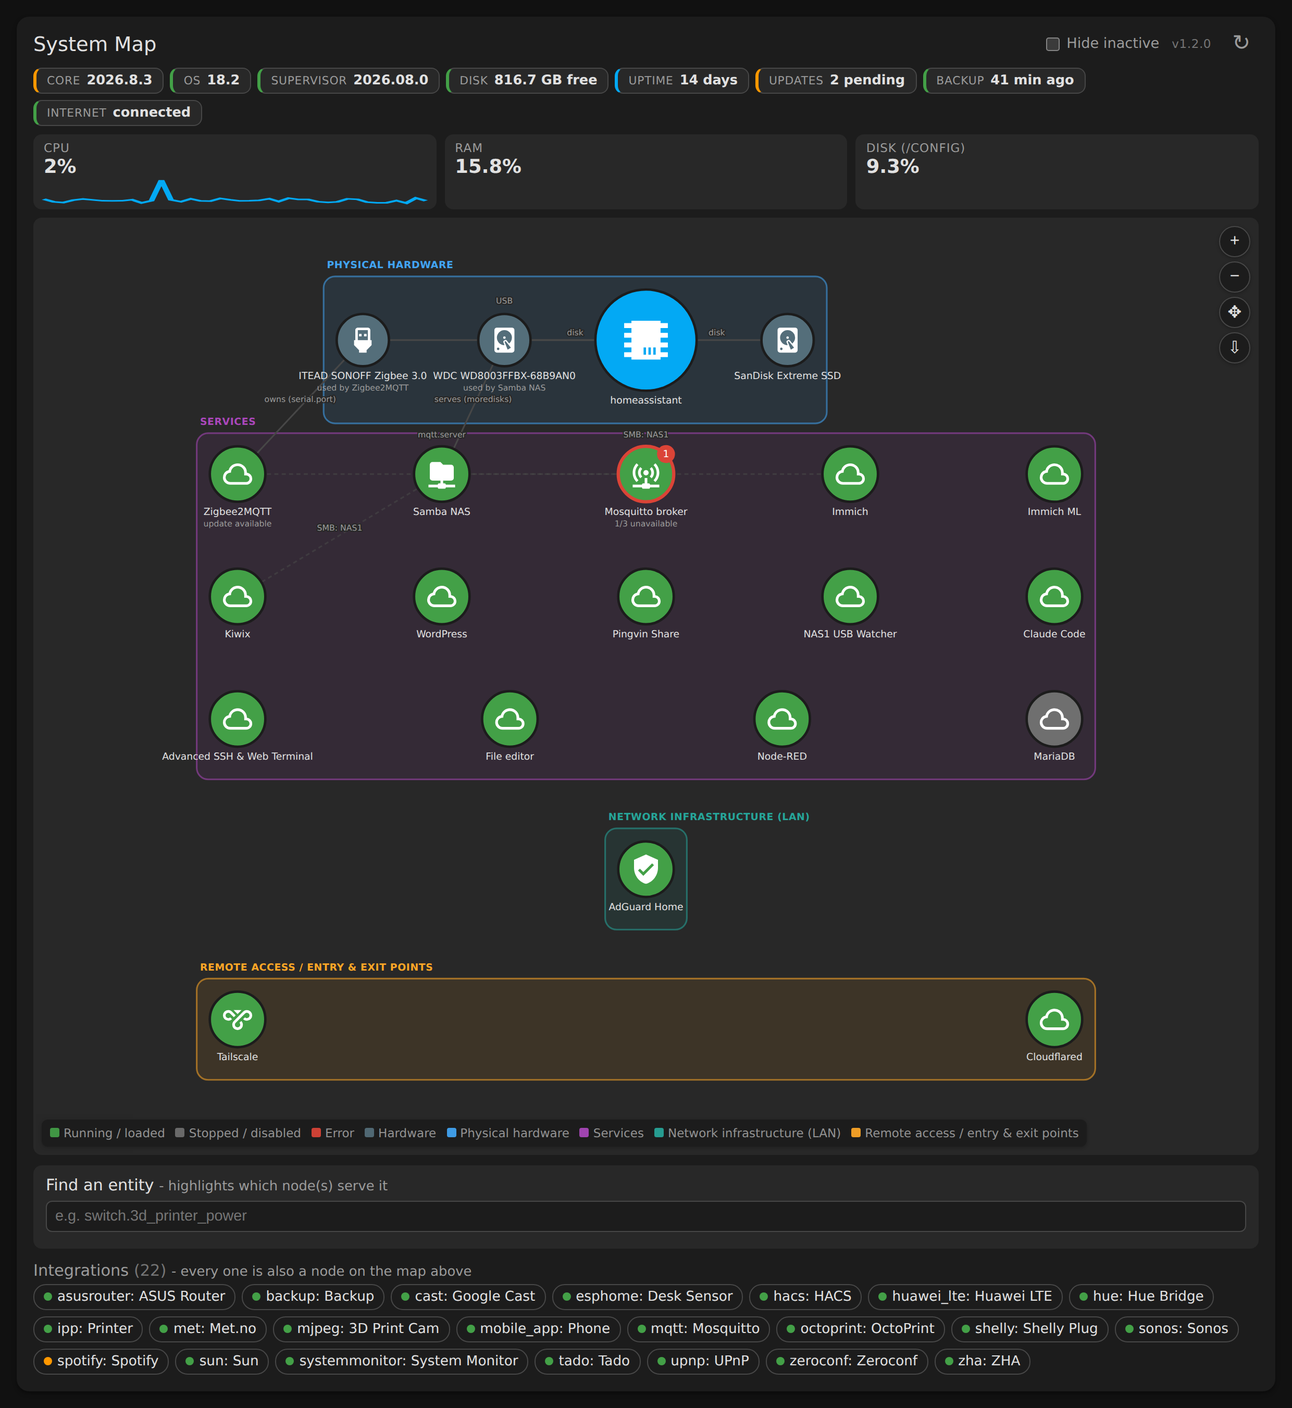
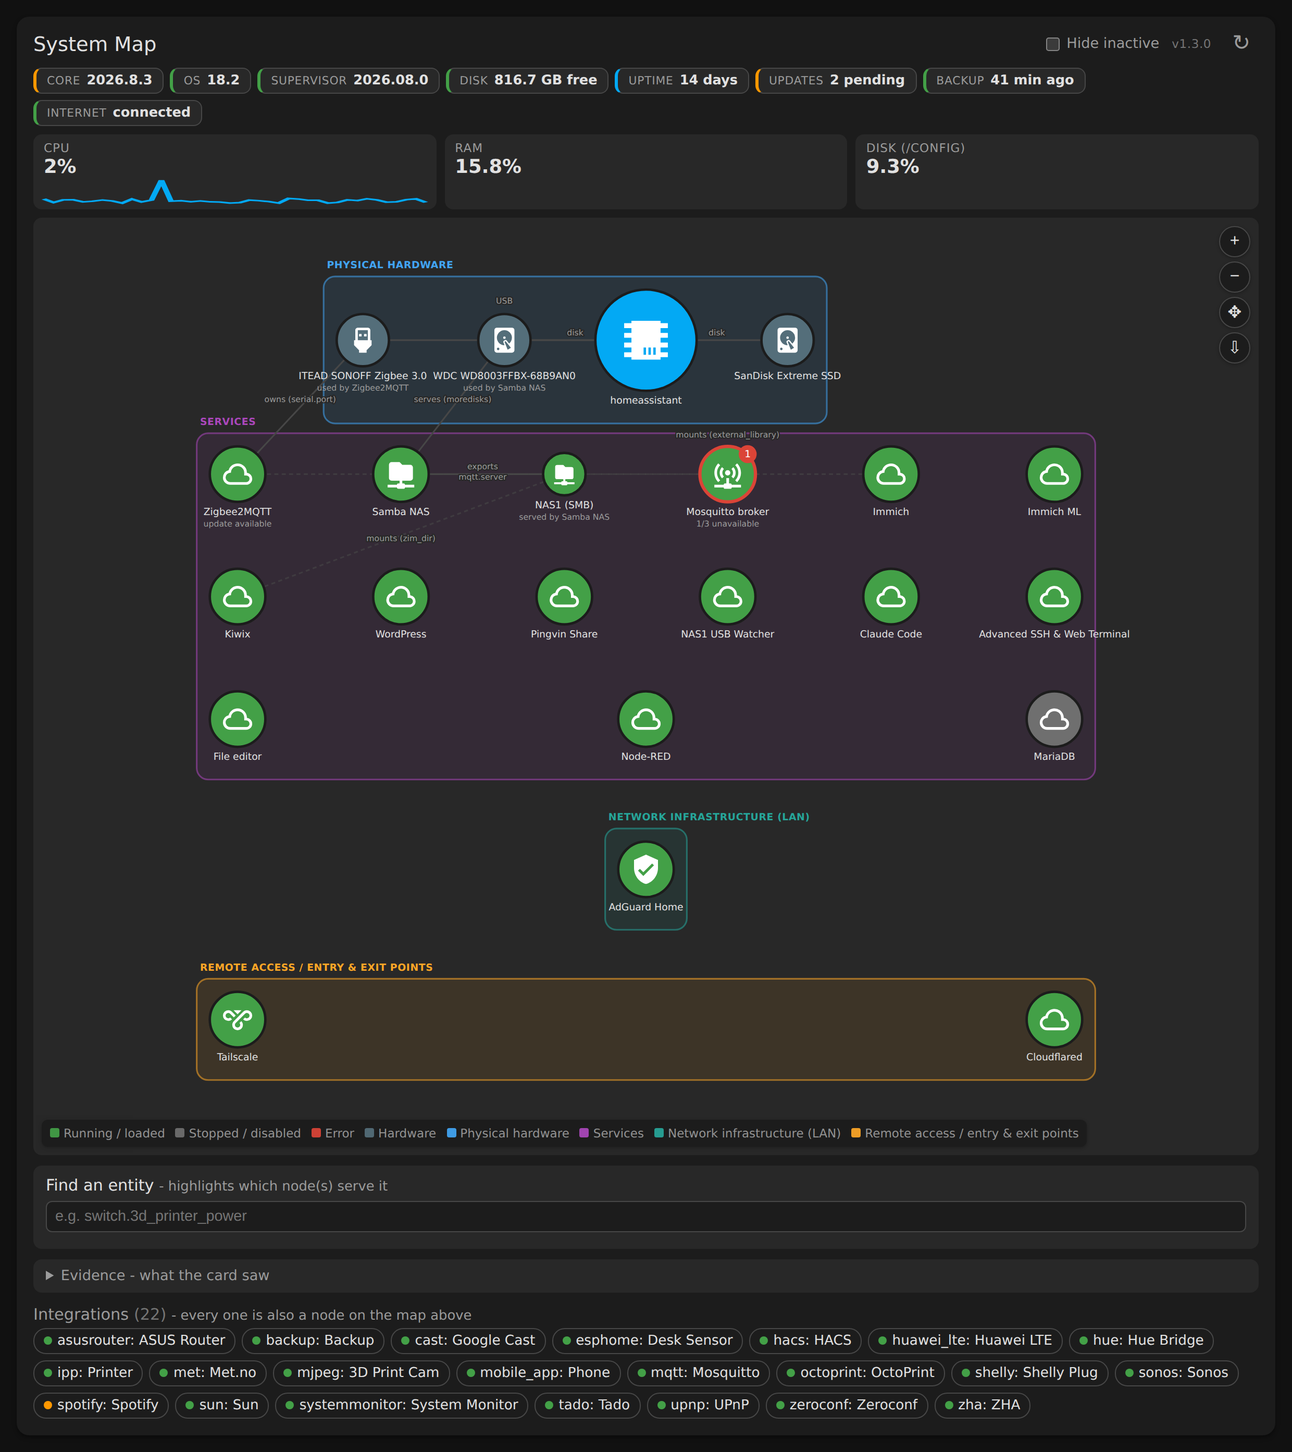
Draw the share, add an evidence panel, restore the public URLs (v1.3.0)
The public URLs regression first, since it was a real bug: routes were
parsed from the last 400 lines of a tunnel add-on's log, but the ingress
rules are logged once at startup. On a tunnel that has been up a while and
chattering since - connection registrations, prechecks - that line has long
scrolled out of the window, so every route was lost and nothing got a public
URL. Logs are now parsed in full; the tail limit applies only to the log
shown in the detail panel.

The share is now a node. "Samba serves NAS1" and "Immich reads NAS1" as two
edge labels left the reader to join them up; drawing the share makes the
chain the shape of the picture - disk, `serves (moredisks)`, the add-on
exporting it, `exports`, NAS1 (SMB), `mounts (external_library)`, each
consumer. A share takes the state of the add-on exporting it, so it goes
grey when that add-on stops rather than sitting permanently unknown.

The evidence panel answers "what did you actually see?" directly, rather
than leaving the reasoning implicit in a diagram. Per add-on: state,
published ports, the roles and tier derived from them, option keys, folder
mappings, whether its log was read, and every edge derived for it. Plus the
external routes with what each resolved to, the discovered hardware with its
paths and labels, and the fetches that failed. It is also the fastest way to
establish that a fact is not in any API at all - an add-on with no ports, no
matched options and no log evidence has nothing to draw from.
[…]

diff --git a/system-map-card.js b/system-map-card.js
@@ -112,7 +112,7 @@
 // version in the console is always the version of the file that's running -
 // which is the first thing worth knowing when a dashboard misbehaves after
 // an update, and the quickest way to catch a stale browser cache.
-const VERSION = "1.2.0";
+const VERSION = "1.3.0";
 
 console.info(
   `%c SYSTEM-MAP-CARD %c v${VERSION} `,
@@ -311,6 +311,21 @@ function routesFromLog(text) {
   return out;
 }
 
+// Every http(s) endpoint an add-on's log mentions, deduplicated. Used to
+// derive "this add-on talks to that one" where the dependency is announced at
+// runtime rather than written in the options. Deliberately only host:port -
+// no paths, no query strings, nothing that could carry a credential onto the
+// map.
+function servicesFromLog(text) {
+  if (typeof text !== "string") return [];
+  const seen = new Map();
+  for (const match of text.matchAll(/https?:\/\/([a-z0-9.-]+):(\d{2,5})/gi)) {
+    const service = `http://${match[1]}:${match[2]}`;
+    if (!seen.has(service)) seen.set(service, { service, host: match[1], port: parseInt(match[2], 10) });
+  }
+  return [...seen.values()];
+}
+
 // Whose logs are worth reading for routes? An add-on holding a tunnel or
 // proxy credential, since that's exactly the case where the rules live
 // somewhere else and its options can't tell us anything. Keyed on the option
@@ -465,6 +480,8 @@ const DEFAULTS = {
   show_sparklines: true, // host CPU/RAM history strip
   discover_hardware: true, // build the hardware tier from Supervisor's hardware/info
   group_by_area: false,
+  scan_service_logs: false, // read every running add-on's log for services it dials
+  show_debug: false, // the evidence panel: what the card saw, and what it concluded
   tiers: ["hardware", "services", "network", "remote"],
   // Overrides for instances that don't run System Monitor under these names
   cpu_entity: "",
@@ -550,6 +567,8 @@ const EDITOR_SCHEMA = [
           { name: "group_by_area", selector: { boolean: {} } },
           { name: "show_addon_stats", selector: { boolean: {} } },
           { name: "show_addon_logs", selector: { boolean: {} } },
+          { name: "scan_service_logs", selector: { boolean: {} } },
+          { name: "show_debug", selector: { boolean: {} } },
           { name: "hide_inactive", selector: { boolean: {} } },
         ],
       },
@@ -592,6 +611,8 @@ const EDITOR_LABELS = {
   group_by_area: "Group by area",
   show_addon_stats: "Add-on CPU / RAM",
   show_addon_logs: "Add-on log tail",
+  scan_service_logs: "Scan logs for service links (slow)",
+  show_debug: "Show the evidence panel",
   cpu_entity: "CPU",
   ram_entity: "Memory",
   disk_entity: "Disk",
@@ -759,6 +780,9 @@ class SystemMapCard extends HTMLElement {
     this._problems = new Map(); // node key -> {unavailable, total, issues, health}
     this._counts = new Map(); // node key -> {devices, entities, areas}
     this._history = {}; // stat key -> [values] for the sparklines
+    this._logRoutes = []; // ingress rules read out of logs
+    this._logServices = []; // host:port endpoints add-ons named in their logs
+    this._logSizes = new Map(); // slug -> bytes of log read, for the evidence panel
     this._refreshTimer = null;
     this._naturalViewBox = null; // full-fit viewBox, recomputed each render
     // Set of namespaced keys highlighted by the entity finder, or null:
@@ -879,6 +903,7 @@ class SystemMapCard extends HTMLElement {
           <div class="smc-entity-suggestions" hidden></div>
           <div class="smc-entity-result"></div>
         </div>` : ""}
+        ${cfg.show_debug ? `<details class="smc-debug"><summary>Evidence - what the card saw</summary><div class="smc-debug-body"></div></details>` : ""}
         ${cfg.show_integration_list ? `<div class="smc-lists">
           <div class="smc-col">
             <h3>Integrations <span class="smc-count" data-count="integrations"></span> <span class="smc-hint">- every one is also a node on the map above</span></h3>
@@ -970,6 +995,17 @@ class SystemMapCard extends HTMLElement {
         .smc-problem-badge { fill: var(--error-color, #db4437); font-size: 10px; font-weight: 700; text-anchor: middle; }
         .smc-detail-section { margin-top: 8px; padding-top: 6px; border-top: 1px solid var(--divider-color, #ddd); }
         .smc-detail-section h4 { margin: 0 0 4px; font-size: 0.85em; font-weight: 600; color: var(--secondary-text-color); }
+        .smc-debug { margin-top: 10px; padding: 8px 12px; border-radius: 8px; background: var(--secondary-background-color, #f2f2f2); font-size: 0.85em; color: var(--primary-text-color); flex: 0 0 auto; }
+        .smc-debug summary { cursor: pointer; font-weight: 500; color: var(--secondary-text-color); }
+        .smc-debug-body { margin-top: 8px; max-height: 420px; overflow: auto; }
+        .smc-debug table { width: 100%; border-collapse: collapse; font-size: 0.92em; }
+        .smc-debug th { text-align: left; font-weight: 500; color: var(--secondary-text-color); padding: 3px 8px 3px 0; vertical-align: top; white-space: nowrap; }
+        .smc-debug td { padding: 3px 8px 3px 0; vertical-align: top; word-break: break-word; }
+        .smc-debug tr + tr td, .smc-debug tr + tr th { border-top: 1px solid var(--divider-color, #ddd); }
+        .smc-debug h4 { margin: 10px 0 4px; font-size: 0.95em; color: var(--primary-text-color); }
+        .smc-debug h4:first-child { margin-top: 0; }
+        .smc-debug code { font-family: var(--code-font-family, monospace); font-size: 0.95em; opacity: 0.9; }
+        .smc-debug .smc-none { color: var(--secondary-text-color); font-style: italic; }
         .smc-log { margin: 0; max-height: 160px; overflow: auto; font-family: var(--code-font-family, monospace); font-size: 0.75em; white-space: pre-wrap; word-break: break-word; background: var(--card-background-color, #fff); border-radius: 6px; padding: 6px 8px; }
       </style>
     `;
@@ -1604,10 +1640,27 @@ class SystemMapCard extends HTMLElement {
       if (!this.isConnected) return;
       const info = this._addonInfoCache.get(addon.slug);
       if (!info || info._error || !looksLikeIngressProvider(info.options)) continue;
-      const log = await this._fetchAddonLog(addon.slug, 400);
+      const log = await this._fetchAddonLog(addon.slug, 0);
+      this._logSizes.set(addon.slug, log ? log.length : 0);
       for (const route of routesFromLog(log)) found.push({ ...route, viaSlug: addon.slug });
     }
     this._logRoutes = found;
+
+    // Optional, and off by default because it means reading every running
+    // add-on's whole log. An add-on logs the services it dials at startup -
+    // Immich announces its machine-learning sidecar as
+    // "became healthy (http://192.168.8.25:3004)" - and that host:port
+    // resolves to another add-on exactly as a tunnel's ingress rule does.
+    if (!this._config.scan_service_logs) return;
+    const dialled = [];
+    for (const addon of this._addons) {
+      if (!this.isConnected) return;
+      if (addon.state !== "started") continue;
+      const log = await this._fetchAddonLog(addon.slug, 0);
+      this._logSizes.set(addon.slug, log ? log.length : 0);
+      for (const target of servicesFromLog(log)) dialled.push({ ...target, fromSlug: addon.slug });
+    }
+    this._logServices = dialled;
   }
 
   // One hour of the two headline stats, downsampled to fit a ~60px sparkline.
@@ -1644,6 +1697,7 @@ class SystemMapCard extends HTMLElement {
     this._renderLegend();
     this._renderGraph();
     this._renderChipList("integrations");
+    this._renderDebug();
     this._renderHostStats();
     this._renderDetail().catch((e) => console.error("system-map-card: detail render failed", e));
     const btn = this.querySelector(".smc-refresh");
@@ -1789,6 +1843,80 @@ class SystemMapCard extends HTMLElement {
         </span>`
       )
       .join("");
+  }
+
+  // The evidence panel. Everything the map claims is inferred from something,
+  // and when an inference is wrong or missing the useful question is "what
+  // did you actually see?" - so this answers it directly, per add-on, rather
+  // than leaving the reasoning implicit in a diagram. It is also the fastest
+  // way to find out that a fact simply isn't in any API: an add-on with no
+  // ports, no matched options and no log evidence has nothing to draw from.
+  _renderDebug() {
+    const el = this.querySelector(".smc-debug-body");
+    if (!el) return;
+
+    const esc = escapeHtml;
+    const none = (text) => `<span class="smc-none">${esc(text)}</span>`;
+    const table = (rows) =>
+      rows.length
+        ? `<table>${rows.map(([k, v]) => `<tr><th>${esc(k)}</th><td>${v}</td></tr>`).join("")}</table>`
+        : none("nothing found");
+
+    const byId = new Map(this._derived.nodes.map((n) => [n.id, n]));
+    const edgesFor = (id) =>
+      this._derived.edges
+        .filter(([from, to]) => from === id || to === id)
+        .map(([from, to, opts]) => `${esc(byId.get(from)?.label || from)} → ${esc(byId.get(to)?.label || to)} <code>${esc(opts?.label || "")}</code>`);
+
+    const addonRows = this._addons.map((addon) => {
+      const info = this._addonInfoCache.get(addon.slug);
+      const node = this._derived.nodes.find((n) => n.slug === addon.slug);
+      const ports = Object.keys(info?.network || {});
+      const roles = node?.roles || [];
+      const facts = [
+        `state <code>${esc(addon.state || "?")}</code>`,
+        ports.length ? `ports <code>${esc(ports.join(", "))}</code>` : "no published ports",
+        roles.length ? `roles <code>${esc(roles.join(", "))}</code>` : null,
+        `tier <code>${esc(node?.tier || "not placed")}</code>`,
+        info ? `options <code>${esc(Object.keys(info.options || {}).join(", ") || "none")}</code>` : "options not read yet",
+        info?.map ? `folders <code>${esc((Array.isArray(info.map) ? info.map : Object.keys(info.map)).join(", "))}</code>` : null,
+        this._logSizes.has(addon.slug) ? `log read (${esc(String(this._logSizes.get(addon.slug)))} bytes)` : "log not read",
+      ].filter(Boolean);
+      const links = node ? edgesFor(node.id) : [];
+      return [
+        addon.name || addon.slug,
+        `${facts.join(" · ")}${links.length ? `<br>${links.join("<br>")}` : `<br>${none("no derived links")}`}`,
+      ];
+    });
+
+    const routeRows = (this._routes || []).map((r) => [
+      r.hostname,
+      `${esc(r.service)} → ${esc(byId.get(r.targetId)?.label || "unresolved")} <code>${esc(r.source)}</code>, via ${esc(r.viaSlug || "?")}`,
+    ]);
+
+    const hardwareRows = this._derived.nodes
+      .filter((n) => n.kind === "hardware")
+      .map((n) => [
+        n.label,
+        `paths <code>${esc((n.paths || []).join(", ") || "none")}</code> · labels <code>${esc((n.labels || []).join(", ") || "none")}</code><br>` +
+          ((n.usedBy || []).length
+            ? n.usedBy.map((u) => `${esc(u.name)} <code>${esc(u.option)}</code>${u.via ? ` (via ${esc(u.via)})` : ""}`).join("<br>")
+            : none("no add-on's options reference it")),
+      ]);
+
+    const dialled = (this._logServices || []).map((d) => [
+      this._addons.find((a) => a.slug === d.fromSlug)?.name || d.fromSlug,
+      `${esc(d.service)} → ${esc(this._resolveService(d.service, this._derived.nodes.filter((n) => n.kind === "addon"))?.id || "unresolved")}`,
+    ]);
+
+    el.innerHTML = `
+      <h4>Add-ons (${this._addons.length})</h4>${table(addonRows)}
+      <h4>Discovered hardware (${hardwareRows.length})</h4>${table(hardwareRows)}
+      <h4>External routes (${routeRows.length})</h4>${table(routeRows)}
+      <h4>Services named in logs (${dialled.length})</h4>${
+        this._config.scan_service_logs ? table(dialled) : none("log scanning is off - enable \"Scan logs for service links\" to fill this in")
+      }
+      <h4>Fetches that failed</h4>${table(Object.entries(this._loadErrors).map(([k, v]) => [k, esc(v)]))}`;
   }
 
   _renderLegend() {
@@ -2109,6 +2237,16 @@ class SystemMapCard extends HTMLElement {
       edges.push([route.viaId, route.targetId, { label: route.hostname, dashed: true }]);
     }
 
+    // An add-on that named another add-on's address in its log depends on
+    // it, whether or not that dependency is written anywhere in its options.
+    for (const dialled of this._logServices || []) {
+      const from = addonNodes.find((n) => n.slug === dialled.fromSlug);
+      const to = this._resolveService(dialled.service, addonNodes);
+      if (!from || !to || to.id === from.id || to.id === "host") continue;
+      if (edges.some(([a, b]) => a === from.id && b === to.id)) continue;
+      edges.push([from.id, to.id, { dashed: true, label: `:${dialled.port} (log)` }]);
+    }
+
     // An integration and the add-on serving its protocol.
     for (const node of nodes.filter((n) => n.kind === "integration")) {
       const port = DOMAIN_SERVICE_PORTS[node.domain];
@@ -2197,9 +2335,33 @@ class SystemMapCard extends HTMLElement {
     // drawn downstream of *it* rather than hanging off the drive - which is
     // what the dependency actually is, and what breaks if that add-on stops.
     const nodeFor = (slug) => addonNodes.find((h) => h.slug === slug);
+    const shares = [];
     for (const n of nodes) {
       const forNode = claims.filter((c) => c.node === n);
       const servers = forNode.filter((c) => servesSmb(c.info));
+
+      // The share itself is a node. Saying "Samba serves NAS1" and "Immich
+      // reads NAS1" as two labels on two edges leaves the reader to join
+      // them up; drawing the share makes the chain - disk, then the add-on
+      // exporting it, then the share, then everything mounting it - the
+      // shape of the picture rather than something to infer from text.
+      for (const server of servers) {
+        const shareNode = {
+          id: `share_${slugify(server.slug)}_${slugify(server.matched)}`,
+          kind: "share",
+          tier: "services",
+          label: `${server.matched} (SMB)`,
+          icon: "folder-network",
+          r: 26,
+          share: server.matched,
+          servedBy: server.slug,
+          notes: [`SMB share exported by ${server.info.name || server.slug} from ${n.label}`],
+        };
+        shares.push(shareNode);
+        const serverNode = nodeFor(server.slug);
+        if (serverNode) edges.push([serverNode.id, shareNode.id, { label: "exports" }]);
+      }
+
       for (const claim of forNode) {
         const isServer = servers.includes(claim);
         const server = isServer ? null : servers.find((sv) => sv.slug !== claim.slug);
@@ -2213,13 +2375,15 @@ class SystemMapCard extends HTMLElement {
 
         const target = nodeFor(claim.slug);
         if (!target) continue;
-        const source = server ? nodeFor(server.slug) : null;
-        if (source) edges.push([source.id, target.id, { dashed: true, label: `SMB: ${server.matched}` }]);
+        const shareNode = server ? shares.find((sh) => sh.servedBy === server.slug && sh.share === server.matched) : null;
+        // A consumer hangs off the share, not the disk: the share is what
+        // breaks when the exporting add-on stops.
+        if (shareNode) edges.push([shareNode.id, target.id, { dashed: true, label: `mounts (${claim.option})` }]);
         else edges.push([n.id, target.id, { label: `${isServer ? "serves" : "owns"} (${claim.option})` }]);
       }
     }
 
-    return { nodes, edges };
+    return { nodes: [...nodes, ...shares], edges };
   }
 
   // Resolves an entity registry entry to node key(s) once per
@@ -2336,6 +2500,12 @@ class SystemMapCard extends HTMLElement {
     let sub = "";
     if (n.kind === "host") status = "host";
     else if (n.kind === "hardware") status = "hardware";
+    else if (n.kind === "share") {
+      // A share is only up while the add-on exporting it is, so it takes
+      // that add-on's state rather than looking permanently unknown.
+      status = addonStatus(this._findAddon(n.servedBy));
+      sub = `served by ${this._findAddon(n.servedBy)?.name || n.servedBy}`;
+    }
     else if (n.kind === "addon") {
       const addon = this._findAddon(n.slug);
       status = addonStatus(addon);
@@ -2782,6 +2952,12 @@ class SystemMapCard extends HTMLElement {
   // Never cached: a log tail that doesn't change when you reopen it is
   // worse than no log at all. Trimmed to the last lines - the endpoint can
   // return a lot, and this is a glance, not a log viewer.
+  // `lines` trims the tail for *display* only. Pass 0 to get the whole log:
+  // the facts worth deriving are logged once at startup - a tunnel's ingress
+  // rules, the services an add-on connects to - so a tail loses them on
+  // anything that has been running a while and chattering since. Reading
+  // routes out of the last 400 lines is exactly why the public URLs
+  // disappeared after the map became derived.
   async _fetchAddonLog(slug, lines = 25) {
     try {
       const res = await this._hass.connection.sendMessagePromise({
@@ -2791,7 +2967,8 @@ class SystemMapCard extends HTMLElement {
       });
       const text = typeof res === "string" ? res : res?.data ?? "";
       if (typeof text !== "string" || !text.trim()) return null;
-      return text.trim().split("\n").slice(-lines).join("\n");
+      const trimmed = text.trim();
+      return lines > 0 ? trimmed.split("\n").slice(-lines).join("\n") : trimmed;
     } catch (e) {
       return `Couldn't read the log: ${describeError(e)}`;
     }

diff --git a/CHANGELOG.md b/CHANGELOG.md
@@ -8,6 +8,40 @@ was already there in a way an existing dashboard would notice.
 `VERSION` in `system-map-card.js` is the source of truth and CI refuses to
 publish a release whose tag doesn't match it.
 
+## [1.3.0] - 2026-09-02
+
+### Added
+
+- **The exported share is a node.** Saying "Samba serves NAS1" and "Immich
+  reads NAS1" as two edge labels left the reader to join them up. The share
+  is now drawn, so the chain is the shape of the picture: disk →
+  `serves (moredisks)` → the add-on exporting it → `exports` → **NAS1 (SMB)**
+  → `mounts (external_library)` → each consumer. A share takes the state of
+  the add-on exporting it, so it goes grey when that add-on stops.
+- **An evidence panel** (`show_debug`), listing what the card actually saw
+  and what it concluded: per add-on its state, published ports, derived
+  roles and tier, option keys, folder mappings, whether its log was read, and
+  every edge derived for it - plus the external routes with what each
+  resolved to, the discovered hardware with its paths and labels, and the
+  fetches that failed. Everything the map claims is inferred from something,
+  and this is where to look when an inference is wrong or missing.
+- **Service links from logs** (`scan_service_logs`, off by default). An
+  add-on often announces what it depends on at runtime rather than in its
+  options - Immich reports its machine-learning sidecar as "became healthy
+  (http://192.168.8.25:3004)" - and that host:port resolves to another add-on
+  exactly as a tunnel's ingress rule does. Off by default because it means
+  reading every running add-on's whole log. Only the host and port are ever
+  taken from a log line, and a URL carrying credentials is skipped outright
+  rather than stripped.
+
+### Fixed
+
+- **Public URLs disappeared.** Routes were parsed from the last 400 lines of
+  a tunnel add-on's log, but the ingress rules are logged once at startup -
+  so on a tunnel that had been up a while and chattering since, the line had
+  scrolled out of the window and every route was lost. Logs are now parsed in
+  full; the tail limit applies only to the log shown in the detail panel.
+
 ## [1.2.0] - 2026-09-02
 
 ### Changed

diff --git a/README.md b/README.md
@@ -62,6 +62,9 @@ a count.
   - **Public URLs** from the tunnel add-on that routes them, read from its
     options, or from its log when the tunnel is managed remotely and the
     rules never touch disk
+  - **Exported shares as nodes**: disk → the add-on exporting it → the share
+    → everything mounting it, so the chain is visible rather than implied by
+    edge labels
   - **Routers** from integrations reporting `device_tracker` entities with
     `source_type: router`
   - **Positions** by a barycentre pass that keeps connected nodes near each
@@ -101,6 +104,8 @@ editor (three-dot menu on the card -> Edit).
 | `group_by_area` | `false` | Split the integrations grid by area |
 | `show_addon_stats` | `true` | Live CPU/RAM in the detail panel |
 | `show_addon_logs` | `false` | Log tail in the detail panel (see note below) |
+| `scan_service_logs` | `false` | Read every running add-on's log for services it dials |
+| `show_debug` | `false` | Evidence panel: what the card saw and concluded |
 | `cpu_entity` etc. | auto | Override the host-stat entities |
 
 ```yaml
@@ -109,6 +114,15 @@ title: System Map
 graph_height: 600
 group_by_area: true
 ```
+
+### When the map is missing something
+
+Turn on **Show the evidence panel** in the visual editor. It lists, per
+add-on, the ports it publishes, the roles and tier derived from them, its
+option keys, whether its log was read and every edge derived for it - plus
+the external routes and what each resolved to. If an add-on shows no ports,
+no matched options and no log evidence, the information genuinely isn't in
+any API the card can reach, and no amount of configuration will surface it.
 
 ### A note on `show_addon_logs`
 
